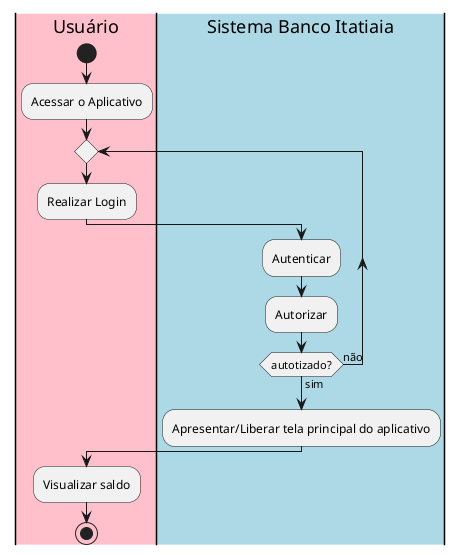
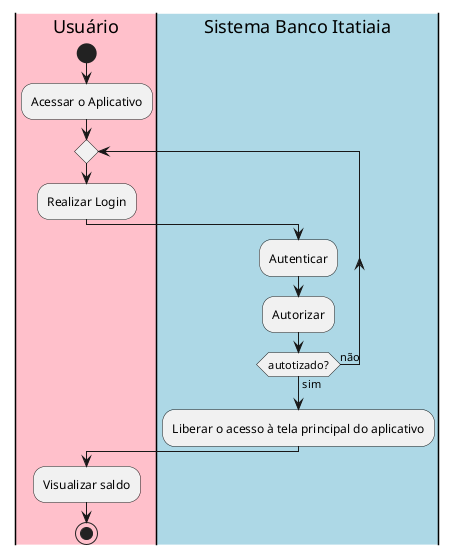
Caso de uso ihc

diff --git a/ihc/casoDeUso/README.md b/ihc/casoDeUso/README.md
@@ -1,22 +1,59 @@
 # Caso de Uso
 
-## Realizar uma transferência de dinheiro - pix
-A dona de casa Vilma finaliza suas compras no mercado e escolhe o Pix como método de pagamento. Em seguida, ela pega seu celular, abre o aplicativo do seu banco (Banco Itatiaia) e realiza o login. Nesse momento o sistema do banco realiza o processo de autenticação e autorização pertinente para a conta da dona Vilma, em caso positivo, o sistema apresenta/libera a tela principal do aplicativo. Em seguida, de forma intuitiva, dona Vilma seleciona a funcionalidade de transferências via Pix e preenche os dados pertinentes para a transação ocorrer, a chave Pix do mercado e o valor a ser transferido. O sistema do Banco Itatiaia realiza as verificações de segurança e as verificações de regras de negócio, como por exemplo se o saldo na conta de dona Vilma é suficiente e se a chave Pix preenchida está devidamente registrada no sistema financeiro brasileiro. Após a conclusão das etapas anteriores o sistema do banco de dona Vilma apresenta um resumo da iminente transação e requisita a confirmação de dona Vilma para definitivamente realizá-la. Dona Vilma confirma a transação e o sistema do banco Itatiaia realiza a integração com o sistema financeiro do mercado através da infraestrutura do Banco Central e, em seguida, realiza a transferência do dinheiro e gera o comprovante de pagamento. O colaborador do mercado confirma que a transferência foi realizada e se despede de dona Vilma educadamente.
+## Acessar sistema bancário
+Dona Vilma deseja acessar seu aplicativo bancário.
+
+Para isso, ela abre o aplicativo do Banco Itatiaia em seu celular e realiza o login. O sistema bancário executa os processos de autenticação e autorização da conta. Após a validação bem-sucedida, o sistema libera o acesso à tela principal do aplicativo.
+
+## Realizar uma transferência de dinheiro - Pix
+Dona Vilma, após finalizar suas compras no mercado, decide utilizar o Pix como método de pagamento. [Acessando o sistema bancário](#acessar-sistema-bancário), ela navega intuitivamente até a funcionalidade de transferências via Pix. Em seguida, insere as informações necessárias para a transação: a chave Pix do mercado e o valor a ser transferido. 
+
+O sistema do Banco Itatiaia realiza as verificações de segurança e valida as regras de negócio, como a disponibilidade de saldo suficiente na conta e a validade da chave Pix no sistema financeiro brasileiro. Após essas verificações, o sistema apresenta um resumo da transação e solicita a confirmação de Dona Vilma para efetuar o pagamento. Ao confirmar, o Banco Itatiaia realiza a integração com o sistema financeiro do mercado, por meio da infraestrutura do Banco Central, completando a transferência e gerando o comprovante. O colaborador do mercado confirma a transação e se despede educadamente de Dona Vilma.
 
 ![transferenciaPix](image/transferenciaPix.png)
 
 ## Consultar saldo
-Dona Vilma deseja consultar o saldo que está em sua conta. Dessa forma, ela pega seu celular, abre o aplicativo do seu banco (Banco Itatiaia) e realiza o login. Nesse momento o sistema do banco realiza o processo de autenticação e autorização pertinente para a conta da dona Vilma, em caso positivo, o sistema apresenta/libera a tela principal do aplicativo. Na tela principal está destacado o valor do saldo de dona Vilma, que visualiza e guarda o celular.
+Dona Vilma deseja consultar o saldo disponível em sua conta. Para isso, ela [acessa o sistema bancário](#acessar-sistema-bancário). Na tela principal do aplicativo, o saldo de Dona Vilma é destacado e exibido. Ela visualiza o valor e fecha o aplicativo.
 
 ![consultarSaldo](image/consultarSaldo.png)
 
 ## Pagamento de contas
-Dona Vilma deseja pagar sua conta de internet (um boleto). Dessa forma, ela pega seu celular, abre o aplicativo do seu banco (Banco Itatiaia) e realiza o login. Nesse momento o sistema do banco realiza o processo de autenticação e autorização pertinente para a conta da dona Vilma, em caso positivo, o sistema apresenta/libera a tela principal do aplicativo.  
+Dona Vilma deseja pagar sua conta de internet (um boleto).
 
-Em seguida, de forma intuitiva, dona Vilma seleciona a funcionalidade de pagamento de contas e escaneia o código de barras ou digita o código do boleto. Após a conclusão da etapa anterior, o sistema do Banco Itatiaia faz as devidas verificações de segurança e de regras de negócio, como por exemplo se o saldo na conta de dona Vilma é suficiente e se o código do boleto fornecido é válido.  
+Para iniciar o pagamento, ela [acessa o sistema bancário](#acessar-sistema-bancário). Em seguida, seleciona a funcionalidade de pagamento de contas e escolhe escanear o código de barras do boleto ou digitar manualmente o código.
 
-Após a conclusão das etapas anteriores o sistema do banco de dona Vilma apresenta um resumo da operação de pagamento e requisita a confirmação de dona Vilma para definitivamente realizá-la.
+Após essa etapa, o sistema do Banco Itatiaia realiza as verificações de segurança e aplica as regras de negócio, como assegurar que o saldo na conta de Dona Vilma é suficiente e que o código do boleto é válido. Ao concluir essas verificações, o sistema exibe um resumo da operação e solicita a confirmação de Dona Vilma para finalizar o pagamento.
 
-Dona Vilma confirma a operação e o sistema do banco se encarrega de concluir a operação e gerar o comprovante de pagamento.
+Dona Vilma confirma a operação, e o sistema conclui o pagamento e gera o comprovante da transação.
 
-![consultarSaldo](image/pagamentoConta.png)
+![pagamentoConta](image/pagamentoConta.png)
+
+## Consultar extrato bancário
+Dona Vilma recebeu um e-mail de sua operadora de internet informando que o pagamento do mês anterior não havia sido confirmado, embora ela tenha certeza de que já efetuou o pagamento.
+
+Para verificar a situação, ela [acessa o sistema bancário](#acessar-sistema-bancário). Em seguida, Dona Vilma navega até a funcionalidade de extrato bancário e percorre os lançamentos para localizar a movimentação em questão. Durante o processo, o sistema do Banco Itatiaia recupera e exibe o extrato completo de sua conta, conforme registrado nas bases de dados.
+
+Ao encontrar a movimentação desejada, Dona Vilma solicita o comprovante da transação. O sistema gera o documento, que ela prontamente encaminha para sua operadora de internet.
+
+![consultarExtratoBancario](image/consultarExtratoBancario.png)
+
+## Consultar fatura do cartão de crédito
+Dona Vilma deseja consultar a fatura de seu cartão de crédito para verificar os lançamentos e confirmar o valor total a ser pago no próximo vencimento.
+
+Para isso, ela [acessa o sistema bancário](#acessar-sistema-bancário). Na tela principal, Dona Vilma navega até a aba de “Cartões” e seleciona a opção de consulta de fatura.
+
+O sistema do Banco Itatiaia então recupera as informações da fatura atual do cartão de crédito de Dona Vilma, exibindo uma lista de transações realizadas, o valor total dos lançamentos, e a data de vencimento. Ela analisa os lançamentos. Ao final, Dona Vilma opta por gerar um documento do resumo da fatura.
+
+O sistema gera o resumo da fatura em formato PDF, que Dona Vilma prontamente envia para seu filho realizar o pagamento.
+
+![consultarFaturaCartao](image/consultarFaturaCartao.png)
+
+## Consultar dados do cartão
+Dona Vilma deseja verificar os dados do seu cartão, incluindo o limite disponível, o limite total, a data de vencimento da fatura, número do cartão, o código de segurança e nome do titular.
+
+Para isso, ela [acessa o sistema bancário](#acessar-sistema-bancário). Na tela principal do aplicativo, Dona Vilma seleciona a opção de “Cartões” e acessa a funcionalidade de consulta de dados do cartão.
+
+O sistema do Banco Itatiaia recupera as informações do cartão e exibe na tela. Dona Vilma visualiza os dados apresentados e fecha o aplicativo.
+
+![consultarDadosCartao](image/consultarDadosCartao.png)
+
